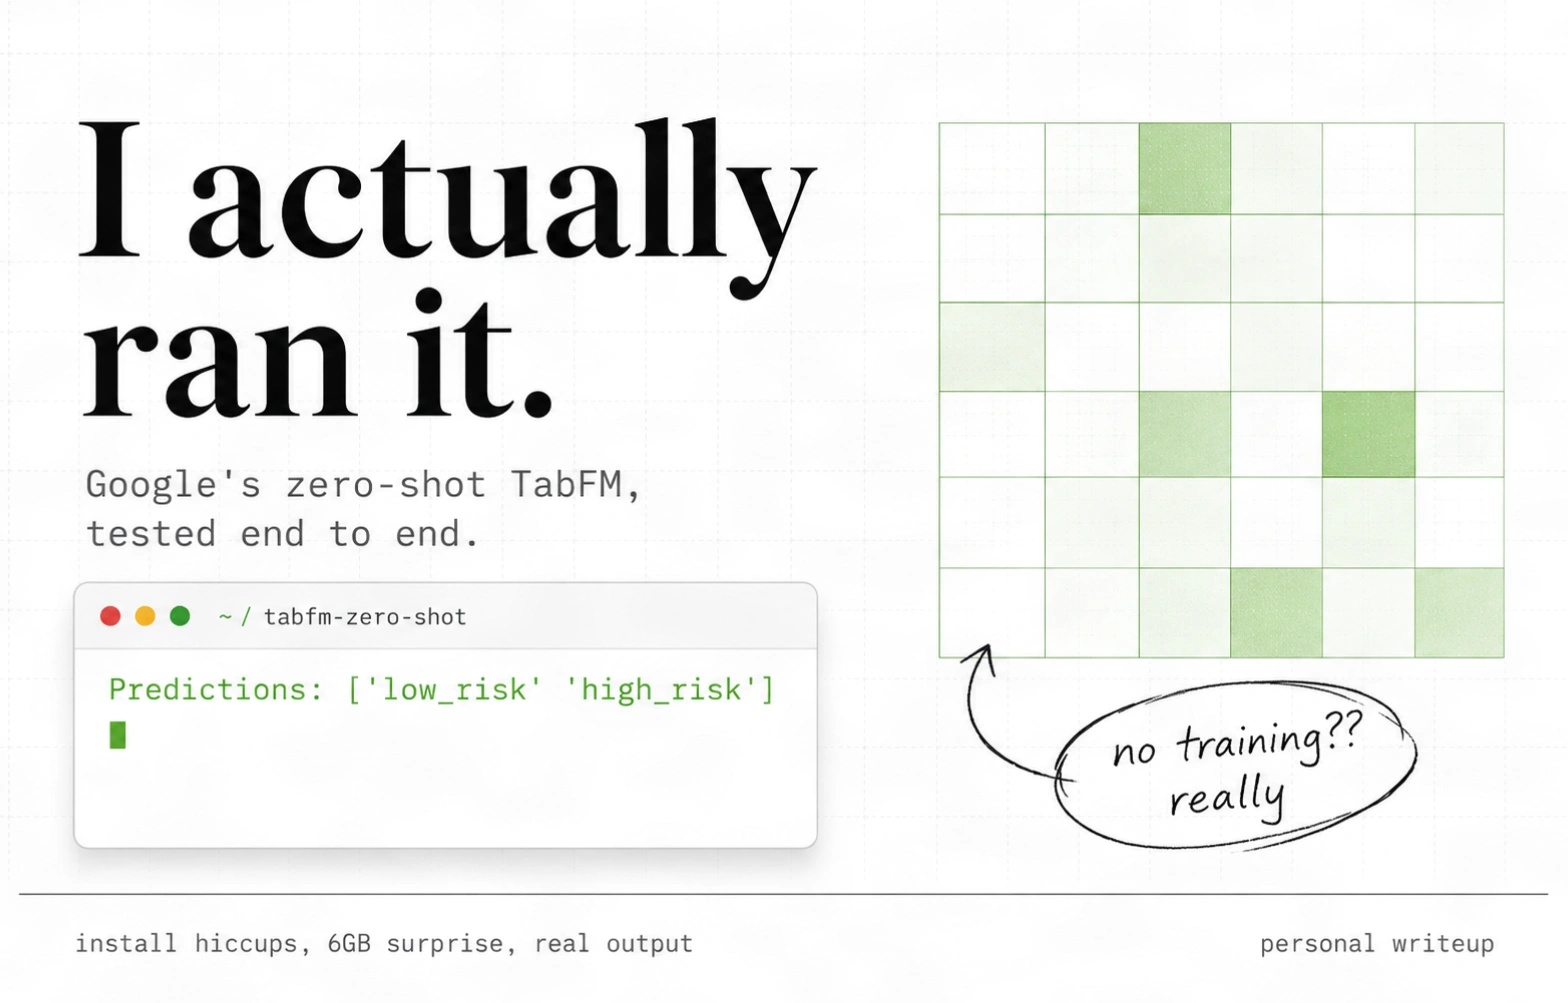
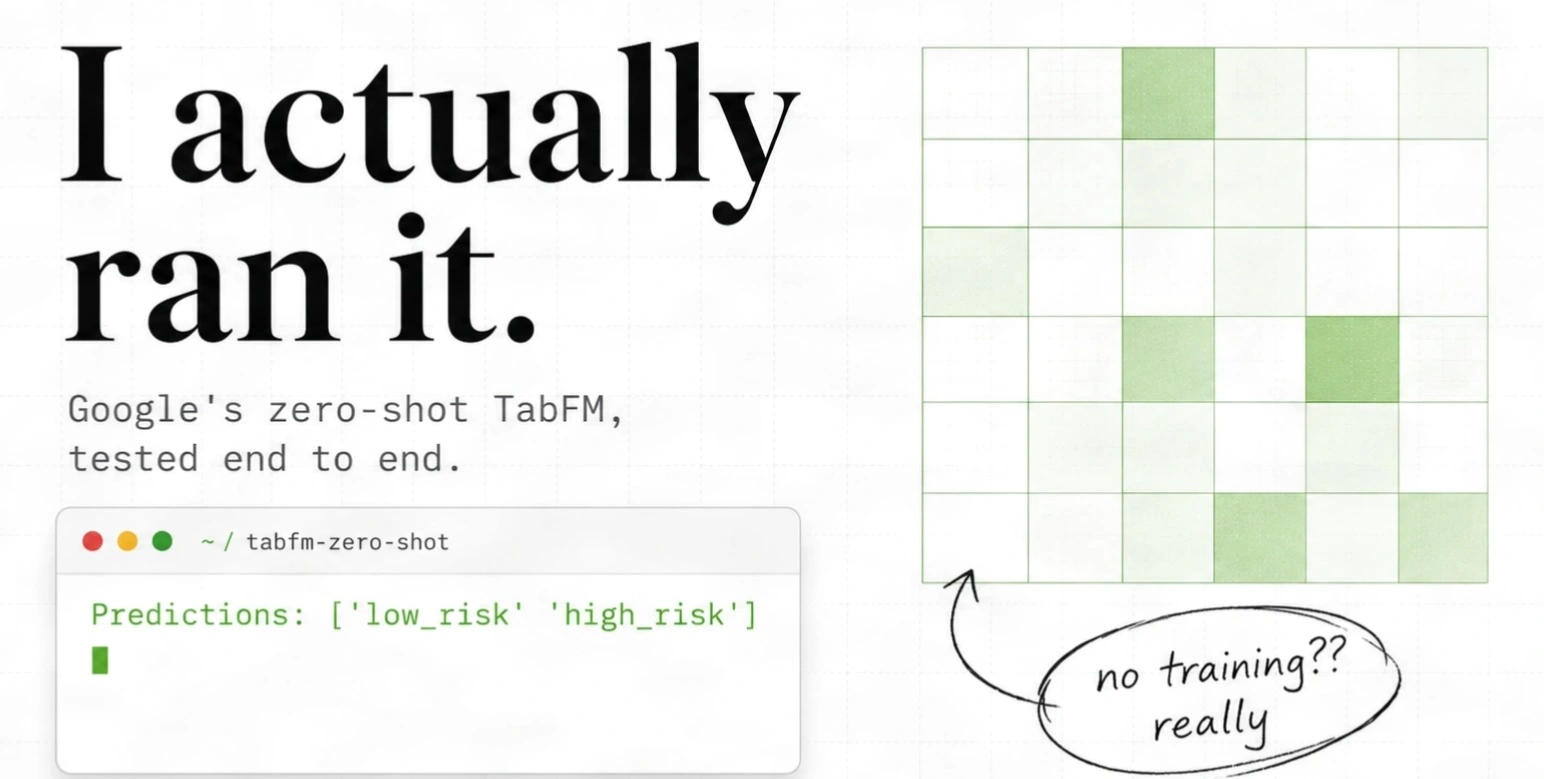
cover img modal modified

diff --git a/content/blog/helix-crossed-4800-downloads.md b/content/blog/helix-crossed-4800-downloads.md
@@ -3,7 +3,7 @@ title: "Helix Just Crossed 4.8K Downloads on PyPI"
 date: "2026-07-31"
 excerpt: "A short update on Helix Framework's first real milestone, what's actually in the box, and why watching strangers pip install it still feels a little unreal."
 tags: ["AI Agents", "Python", "open source", "Helix"]
-coverImage: "/blog/helix-4.8k-downloads.png"
+coverImage: "/blog/helix-4.8k-downloads.webp"
 coverBg: "#050605"
 published: true
 ---
